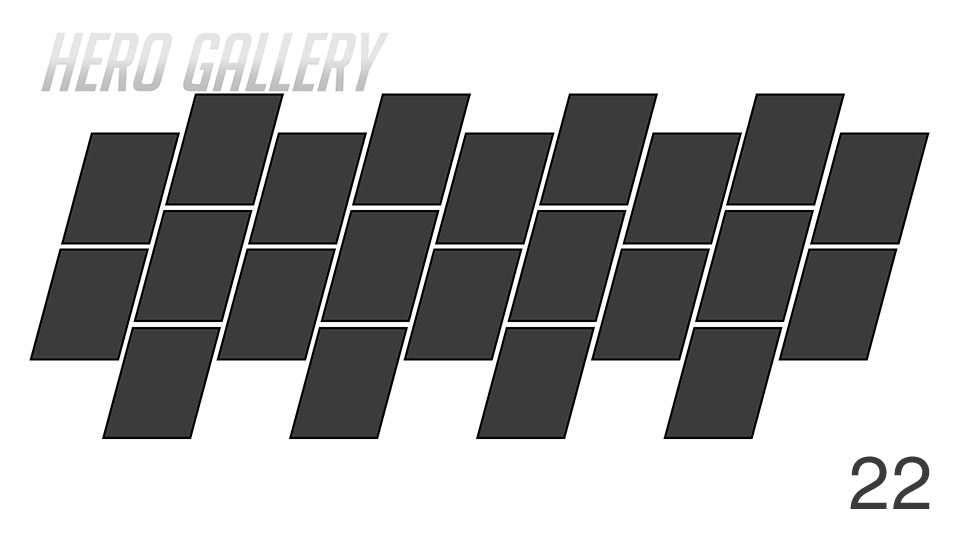
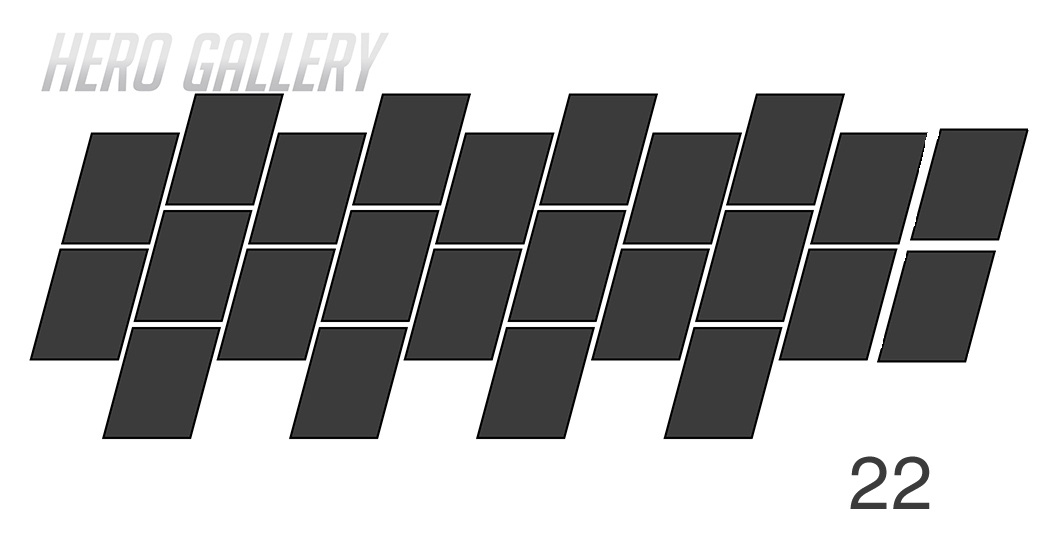
space added for 2 new hereos

Changed region(s): [[0.0312, 0.0593, 1.0, 0.8296], [0.8125, 0.8296, 0.9688, 0.9481]]

diff --git a/MA2/MA2/Heroes.xaml b/MA2/MA2/Heroes.xaml
@@ -12,7 +12,7 @@
             <ImageBrush ImageSource="/assets/gallery.jpg"></ImageBrush>
         </Grid.Background>
         <Button x:Name="Home" Content="Home" FontSize="30" FontWeight="ExtraBold" Foreground="Gray" Background="Transparent"  HorizontalAlignment="Left" Margin="515,2,0,0" VerticalAlignment="Top" RenderTransformOrigin="-0.177,-4.329" Click="button_Click"/>
-        <Button x:Name="Bastion"  HorizontalAlignment="Left" Margin="56.672,94.088,0,0" VerticalAlignment="Top" RenderTransformOrigin="0.5,0.5" UseLayoutRounding="False" d:LayoutRounding="Auto" Click="Bastion_Click" Height="67.156" Width="48.985">
+        <Button x:Name="Bastion"  HorizontalAlignment="Left" Margin="48.672,94.088,0,0" VerticalAlignment="Top" RenderTransformOrigin="0.5,0.5" UseLayoutRounding="False" d:LayoutRounding="Auto" Click="Bastion_Click" Height="67.156" Width="48.985">
             <Button.Background>
                 <ImageBrush ImageSource="/assets/Icons/bas.png"></ImageBrush>
             </Button.Background>
@@ -20,7 +20,7 @@
                 <CompositeTransform Rotation="9.617"/>
             </Button.RenderTransform>
         </Button>
-        <Button x:Name="Reinhart" HorizontalAlignment="Left" Margin="34.672,171.754,0,0" VerticalAlignment="Top" RenderTransformOrigin="0.5,0.5" UseLayoutRounding="False" d:LayoutRounding="Auto" Click="Reinhart_Click" Height="67.156" Width="48.985">
+        <Button x:Name="Reinhart" HorizontalAlignment="Left" Margin="26.672,167.754,0,0" VerticalAlignment="Top" RenderTransformOrigin="0.5,0.5" UseLayoutRounding="False" d:LayoutRounding="Auto" Click="Reinhart_Click" Height="67.156" Width="48.985">
             <Button.Background>
                 <ImageBrush ImageSource="/assets/Icons/rein.png"></ImageBrush>
             </Button.Background>
@@ -28,7 +28,7 @@
                 <CompositeTransform Rotation="9.617"/>
             </Button.RenderTransform>
         </Button>
-        <Button x:Name="Dva" HorizontalAlignment="Left" Margin="82.005,223.088,0,0" VerticalAlignment="Top" RenderTransformOrigin="0.5,0.5" UseLayoutRounding="False" d:LayoutRounding="Auto" Click="Dva_Click" Height="67.156" Width="48.985">
+        <Button x:Name="Dva" HorizontalAlignment="Left" Margin="73.005,218.088,0,0" VerticalAlignment="Top" RenderTransformOrigin="0.5,0.5" UseLayoutRounding="False" d:LayoutRounding="Auto" Click="Dva_Click" Height="67.156" Width="48.985">
             <Button.Background>
                 <ImageBrush ImageSource="/assets/Icons/dva.png"></ImageBrush>
             </Button.Background>
@@ -36,7 +36,7 @@
                 <CompositeTransform Rotation="9.617"/>
             </Button.RenderTransform>
         </Button>
-        <Button x:Name="Roadhog" HorizontalAlignment="Left" Margin="104.005,148.088,0,0" VerticalAlignment="Top" RenderTransformOrigin="0.5,0.5" UseLayoutRounding="False" d:LayoutRounding="Auto" Click="Roadhog_Click" Height="67.156" Width="48.985">
+        <Button x:Name="Roadhog" HorizontalAlignment="Left" Margin="96.505,142.588,0,0" VerticalAlignment="Top" RenderTransformOrigin="0.5,0.5" UseLayoutRounding="False" d:LayoutRounding="Auto" Click="Roadhog_Click" Height="67.156" Width="48.985">
             <Button.Background>
                 <ImageBrush ImageSource="/assets/Icons/rh.png"></ImageBrush>
             </Button.Background>
@@ -52,7 +52,7 @@
                 <CompositeTransform Rotation="9.617"/>
             </Button.RenderTransform>
         </Button>
-        <Button x:Name="Soldier" HorizontalAlignment="Left" Margin="179.339,96.088,0,0" VerticalAlignment="Top" RenderTransformOrigin="1.807,-0.039" UseLayoutRounding="False" d:LayoutRounding="Auto" Click="Soldier_Click" Height="67.156" Width="48.985">
+        <Button x:Name="Soldier" HorizontalAlignment="Left" Margin="166.339,91.588,0,0" VerticalAlignment="Top" RenderTransformOrigin="1.807,-0.039" UseLayoutRounding="False" d:LayoutRounding="Auto" Click="Soldier_Click" Height="67.156" Width="48.985">
             <Button.Background>
                 <ImageBrush ImageSource="/assets/Icons/sol.png"></ImageBrush>
             </Button.Background>
@@ -60,7 +60,7 @@
                 <CompositeTransform Rotation="9.617" TranslateX="5.147" TranslateY="11.205"/>
             </Button.RenderTransform>
         </Button>
-        <Button x:Name="Hanzo" HorizontalAlignment="Left" Margin="161.005,168.087,0,0" VerticalAlignment="Top" RenderTransformOrigin="0.5,0.5" UseLayoutRounding="False" d:LayoutRounding="Auto" Click="Hanzo_Click" Height="67.156" Width="48.985">
+        <Button x:Name="Hanzo" HorizontalAlignment="Left" Margin="145.505,166.087,0,0" VerticalAlignment="Top" RenderTransformOrigin="0.5,0.5" UseLayoutRounding="False" d:LayoutRounding="Auto" Click="Hanzo_Click" Height="67.156" Width="48.985">
             <Button.Background>
                 <ImageBrush ImageSource="/assets/Icons/hanzo.png"></ImageBrush>
             </Button.Background>
@@ -68,7 +68,7 @@
                 <CompositeTransform Rotation="9.617"/>
             </Button.RenderTransform>
         </Button>
-        <Button x:Name="Sym" HorizontalAlignment="Left" Margin="203.005,222.089,0,0" VerticalAlignment="Top" RenderTransformOrigin="1.807,-0.039" UseLayoutRounding="False" d:LayoutRounding="Auto" Click="Sym_Click" Height="67.156" Width="48.985">
+        <Button x:Name="Sym" HorizontalAlignment="Left" Margin="189.505,222.589,0,0" VerticalAlignment="Top" RenderTransformOrigin="1.807,-0.039" UseLayoutRounding="False" d:LayoutRounding="Auto" Click="Sym_Click" Height="67.156" Width="48.985">
             <Button.Background>
                 <ImageBrush ImageSource="/assets/Icons/sem.png"></ImageBrush>
             </Button.Background>
@@ -76,7 +76,7 @@
                 <CompositeTransform Rotation="9.617" TranslateX="5.147" TranslateY="11.205"/>
             </Button.RenderTransform>
         </Button>
-        <Button x:Name="Junk"  HorizontalAlignment="Left" Margin="229.672,144.421,0,0" VerticalAlignment="Top" RenderTransformOrigin="1.807,-0.039" UseLayoutRounding="False" d:LayoutRounding="Auto" Click="Junk_Click" Height="67.156" Width="48.985">
+        <Button x:Name="Junk"  HorizontalAlignment="Left" Margin="208.672,144.421,0,0" VerticalAlignment="Top" RenderTransformOrigin="1.807,-0.039" UseLayoutRounding="False" d:LayoutRounding="Auto" Click="Junk_Click" Height="67.156" Width="48.985">
             <Button.Background>
                 <ImageBrush ImageSource="/assets/Icons/JR.png"></ImageBrush>
             </Button.Background>
@@ -84,7 +84,7 @@
                 <CompositeTransform Rotation="9.617" TranslateX="5.147" TranslateY="11.205"/>
             </Button.RenderTransform>
         </Button>
-        <Button x:Name="torb"  HorizontalAlignment="Left" Height="67.156" Margin="248.006,68.421,0,0" VerticalAlignment="Top" Width="48.985" RenderTransformOrigin="1.807,-0.039" UseLayoutRounding="False" d:LayoutRounding="Auto" Click="torb_Click">
+        <Button x:Name="torb"  HorizontalAlignment="Left" Height="67.156" Margin="228.006,63.921,0,0" VerticalAlignment="Top" Width="48.985" RenderTransformOrigin="1.807,-0.039" UseLayoutRounding="False" d:LayoutRounding="Auto" Click="torb_Click">
             <Button.Background>
                 <ImageBrush ImageSource="/assets/Icons/TB.png"></ImageBrush>
             </Button.Background>
@@ -92,7 +92,7 @@
                 <CompositeTransform Rotation="9.617" TranslateX="5.147" TranslateY="11.205"/>
             </Button.RenderTransform>
         </Button>
-        <Button x:Name="Lucio" HorizontalAlignment="Left" Margin="410.339,167.756,0,0" VerticalAlignment="Top" Width="48.985" RenderTransformOrigin="1.807,-0.039" UseLayoutRounding="False" d:LayoutRounding="Auto" Click="Lucio_Click" Height="67.156">
+        <Button x:Name="Lucio" HorizontalAlignment="Left" Margin="377.839,166.256,0,0" VerticalAlignment="Top" Width="48.985" RenderTransformOrigin="1.807,-0.039" UseLayoutRounding="False" d:LayoutRounding="Auto" Click="Lucio_Click" Height="67.156">
             <Button.Background>
                 <ImageBrush ImageSource="/assets/Icons/lucio.png"></ImageBrush>
             </Button.Background>
@@ -100,7 +100,7 @@
                 <CompositeTransform Rotation="9.617" TranslateX="5.147" TranslateY="11.205"/>
             </Button.RenderTransform>
         </Button>
-        <Button x:Name="Tracer" HorizontalAlignment="Left" Margin="431.005,93.756,0,0" VerticalAlignment="Top" RenderTransformOrigin="1.807,-0.039" UseLayoutRounding="False" d:LayoutRounding="Auto" Click="Tracer_Click" Height="67.156" Width="48.985">
+        <Button x:Name="Tracer" HorizontalAlignment="Left" Margin="394.505,90.256,0,0" VerticalAlignment="Top" RenderTransformOrigin="1.807,-0.039" UseLayoutRounding="False" d:LayoutRounding="Auto" Click="Tracer_Click" Height="67.156" Width="48.985">
             <Button.Background>
                 <ImageBrush ImageSource="/assets/Icons/tracer.png"></ImageBrush>
             </Button.Background>
@@ -108,7 +108,7 @@
                 <CompositeTransform Rotation="9.617" TranslateX="5.147" TranslateY="11.205"/>
             </Button.RenderTransform>
         </Button>
-        <Button x:Name="Mcgree"  HorizontalAlignment="Left" Margin="355.339,138.756,0,0" VerticalAlignment="Top" RenderTransformOrigin="1.807,-0.039" UseLayoutRounding="False" d:LayoutRounding="Auto" Click="Mcgree_Click" Height="67.156" Width="48.985">
+        <Button x:Name="Mcgree"  HorizontalAlignment="Left" Margin="331.839,138.756,0,0" VerticalAlignment="Top" RenderTransformOrigin="1.807,-0.039" UseLayoutRounding="False" d:LayoutRounding="Auto" Click="Mcgree_Click" Height="67.156" Width="48.985">
             <Button.Background>
                 <ImageBrush ImageSource="/assets/Icons/mcgree.png"></ImageBrush>
             </Button.Background>
@@ -116,7 +116,7 @@
                 <CompositeTransform Rotation="9.617" TranslateX="5.147" TranslateY="11.205"/>
             </Button.RenderTransform>
         </Button>
-        <Button x:Name="WidowMaker" HorizontalAlignment="Left" Margin="332.339,219.756,0,0" VerticalAlignment="Top" RenderTransformOrigin="1.807,-0.039" UseLayoutRounding="False" d:LayoutRounding="Auto" Click="WidowMaker_Click" Height="67.156" Width="48.985">
+        <Button x:Name="WidowMaker" HorizontalAlignment="Left" Margin="303.839,216.756,0,0" VerticalAlignment="Top" RenderTransformOrigin="1.807,-0.039" UseLayoutRounding="False" d:LayoutRounding="Auto" Click="WidowMaker_Click" Height="67.156" Width="48.985">
             <Button.Background>
                 <ImageBrush ImageSource="/assets/Icons/WM.png"></ImageBrush>
             </Button.Background>
@@ -124,7 +124,7 @@
                 <CompositeTransform Rotation="9.617" TranslateX="5.147" TranslateY="11.205"/>
             </Button.RenderTransform>
         </Button>
-        <Button x:Name="mei" HorizontalAlignment="Left" Margin="375.339,70.422,0,0" VerticalAlignment="Top" RenderTransformOrigin="1.807,-0.039" UseLayoutRounding="False" d:LayoutRounding="Auto" Click="mei_Click" Height="67.156" Width="48.985">
+        <Button x:Name="mei" HorizontalAlignment="Left" Margin="347.839,57.922,0,0" VerticalAlignment="Top" RenderTransformOrigin="1.807,-0.039" UseLayoutRounding="False" d:LayoutRounding="Auto" Click="mei_Click" Height="67.156" Width="48.985">
             <Button.Background>
                 <ImageBrush ImageSource="/assets/Icons/mai.png"></ImageBrush>
             </Button.Background>
@@ -132,7 +132,7 @@
                 <CompositeTransform Rotation="9.617" TranslateX="5.147" TranslateY="11.205"/>
             </Button.RenderTransform>
         </Button>
-        <Button x:Name="Mercy" HorizontalAlignment="Left" Height="67.156" Margin="308.339,96.422,0,0" VerticalAlignment="Top" Width="48.985" RenderTransformOrigin="1.807,-0.039" UseLayoutRounding="False" d:LayoutRounding="Auto" Click="Mercy_Click">
+        <Button x:Name="Mercy" HorizontalAlignment="Left" Height="67.156" Margin="279.839,88.422,0,0" VerticalAlignment="Top" Width="48.985" RenderTransformOrigin="1.807,-0.039" UseLayoutRounding="False" d:LayoutRounding="Auto" Click="Mercy_Click">
             <Button.Background>
                 <ImageBrush ImageSource="/assets/Icons/mercy.png"></ImageBrush>
             </Button.Background>
@@ -140,7 +140,7 @@
                 <CompositeTransform Rotation="9.617" TranslateX="5.147" TranslateY="11.205"/>
             </Button.RenderTransform>
         </Button>
-        <Button x:Name="winston" HorizontalAlignment="Left" Margin="287.672,163.089,0,0" VerticalAlignment="Top" RenderTransformOrigin="1.807,-0.039" UseLayoutRounding="False" d:LayoutRounding="Auto" Click="winston_Click" Height="67.156" Width="48.985">
+        <Button x:Name="winston" HorizontalAlignment="Left" Margin="261.672,164.589,0,0" VerticalAlignment="Top" RenderTransformOrigin="1.807,-0.039" UseLayoutRounding="False" d:LayoutRounding="Auto" Click="winston_Click" Height="67.156" Width="48.985">
             <Button.Background>
                 <ImageBrush ImageSource="/assets/Icons/win.png"></ImageBrush>
             </Button.Background>
@@ -148,7 +148,7 @@
                 <CompositeTransform Rotation="9.617" TranslateX="5.147" TranslateY="11.205"/>
             </Button.RenderTransform>
         </Button>
-        <Button x:Name="Za" HorizontalAlignment="Left" Margin="536.005,170.422,0,0" VerticalAlignment="Top" RenderTransformOrigin="1.807,-0.039" UseLayoutRounding="False" d:LayoutRounding="Auto" Click="Za_Click" Height="67.156" Width="48.985">
+        <Button x:Name="Za" HorizontalAlignment="Left" Margin="493.505,168.422,0,0" VerticalAlignment="Top" RenderTransformOrigin="1.807,-0.039" UseLayoutRounding="False" d:LayoutRounding="Auto" Click="Za_Click" Height="67.156" Width="48.985">
             <Button.Background>
                 <ImageBrush ImageSource="/assets/Icons/z.png"></ImageBrush>
             </Button.Background>
@@ -156,7 +156,7 @@
                 <CompositeTransform Rotation="9.617" TranslateX="5.147" TranslateY="11.205"/>
             </Button.RenderTransform>
         </Button>
-        <Button x:Name="Pharah" HorizontalAlignment="Left" Margin="557.005,92.422,0,0" VerticalAlignment="Top" RenderTransformOrigin="1.807,-0.039" UseLayoutRounding="False" d:LayoutRounding="Auto" Click="Pharah_Click" Width="48.985" Height="67.156">
+        <Button x:Name="Pharah" HorizontalAlignment="Left" Margin="511.005,84.922,0,0" VerticalAlignment="Top" RenderTransformOrigin="1.807,-0.039" UseLayoutRounding="False" d:LayoutRounding="Auto" Click="Pharah_Click" Width="48.985" Height="67.156">
             <Button.Background>
                 <ImageBrush ImageSource="/assets/Icons/ph.png"></ImageBrush>
             </Button.Background>
@@ -164,7 +164,7 @@
                 <CompositeTransform Rotation="9.617" TranslateX="5.147" TranslateY="11.205"/>
             </Button.RenderTransform>
         </Button>
-        <Button x:Name="Zen"  HorizontalAlignment="Left" Margin="460.672,219.756,0,0" VerticalAlignment="Top" RenderTransformOrigin="1.807,-0.039" UseLayoutRounding="False" d:LayoutRounding="Auto" Click="Zen_Click" Height="67.156" Width="48.985">
+        <Button x:Name="Zen"  HorizontalAlignment="Left" Margin="419.672,220.756,0,0" VerticalAlignment="Top" RenderTransformOrigin="1.807,-0.039" UseLayoutRounding="False" d:LayoutRounding="Auto" Click="Zen_Click" Height="67.156" Width="48.985">
             <Button.Background>
                 <ImageBrush ImageSource="/assets/Icons/zen.png"></ImageBrush>
             </Button.Background>
@@ -172,7 +172,7 @@
                 <CompositeTransform Rotation="9.617" TranslateX="5.147" TranslateY="11.205"/>
             </Button.RenderTransform>
         </Button>
-        <Button x:Name="Reaper" HorizontalAlignment="Left" Margin="482.005,142.756,0,0" VerticalAlignment="Top" RenderTransformOrigin="1.807,-0.039" UseLayoutRounding="False" d:LayoutRounding="Auto" Click="Reaper_Click" Height="67.156" Width="48.985">
+        <Button x:Name="Reaper" HorizontalAlignment="Left" Margin="439.005,142.256,0,0" VerticalAlignment="Top" RenderTransformOrigin="1.807,-0.039" UseLayoutRounding="False" d:LayoutRounding="Auto" Click="Reaper_Click" Height="67.156" Width="48.985">
             <Button.Background>
                 <ImageBrush ImageSource="/assets/Icons/reap.jpg"></ImageBrush>
             </Button.Background>
@@ -180,7 +180,7 @@
                 <CompositeTransform Rotation="9.617" TranslateX="5.147" TranslateY="11.205"/>
             </Button.RenderTransform>
         </Button>
-        <Button x:Name="ana" HorizontalAlignment="Left" Margin="502.005,65.422,0,0" VerticalAlignment="Top" RenderTransformOrigin="1.807,-0.039" UseLayoutRounding="False" d:LayoutRounding="Auto" Click="ana_Click" Height="67.156" Width="48.985">
+        <Button x:Name="ana" HorizontalAlignment="Left" Margin="462.005,61.422,0,0" VerticalAlignment="Top" RenderTransformOrigin="1.807,-0.039" UseLayoutRounding="False" d:LayoutRounding="Auto" Click="ana_Click" Height="67.156" Width="48.985">
             <Button.Background>
                 <ImageBrush ImageSource="/assets/Icons/ana.png"></ImageBrush>
             </Button.Background>
